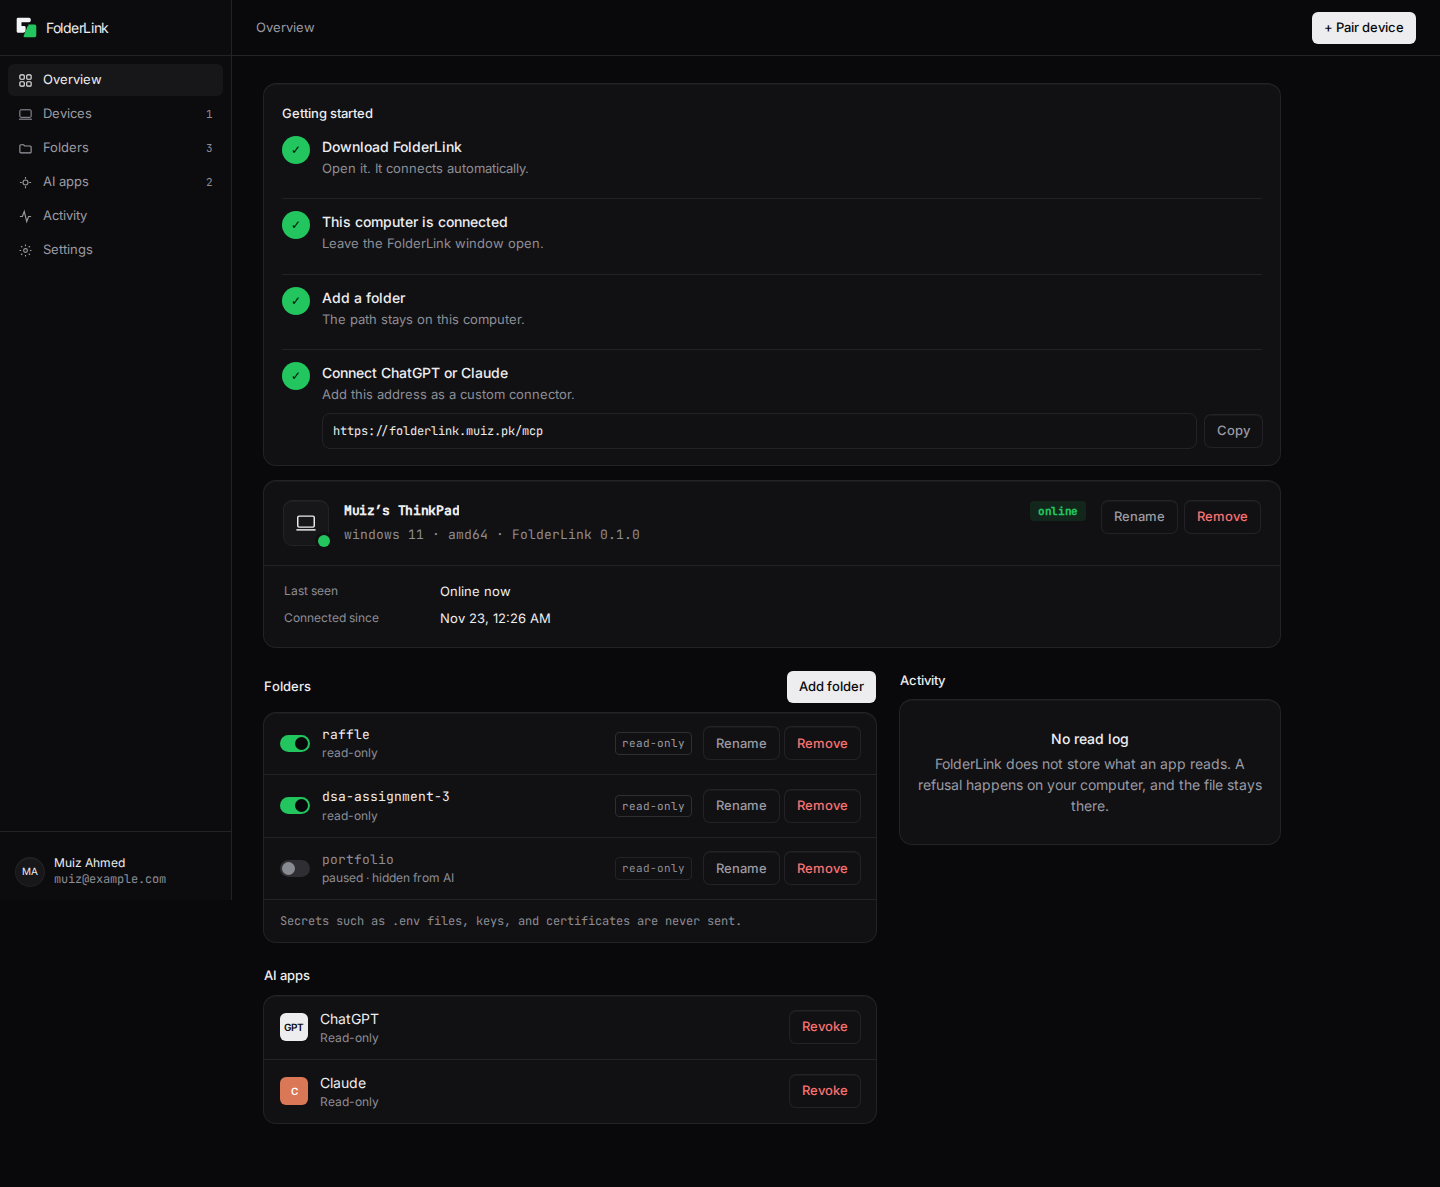
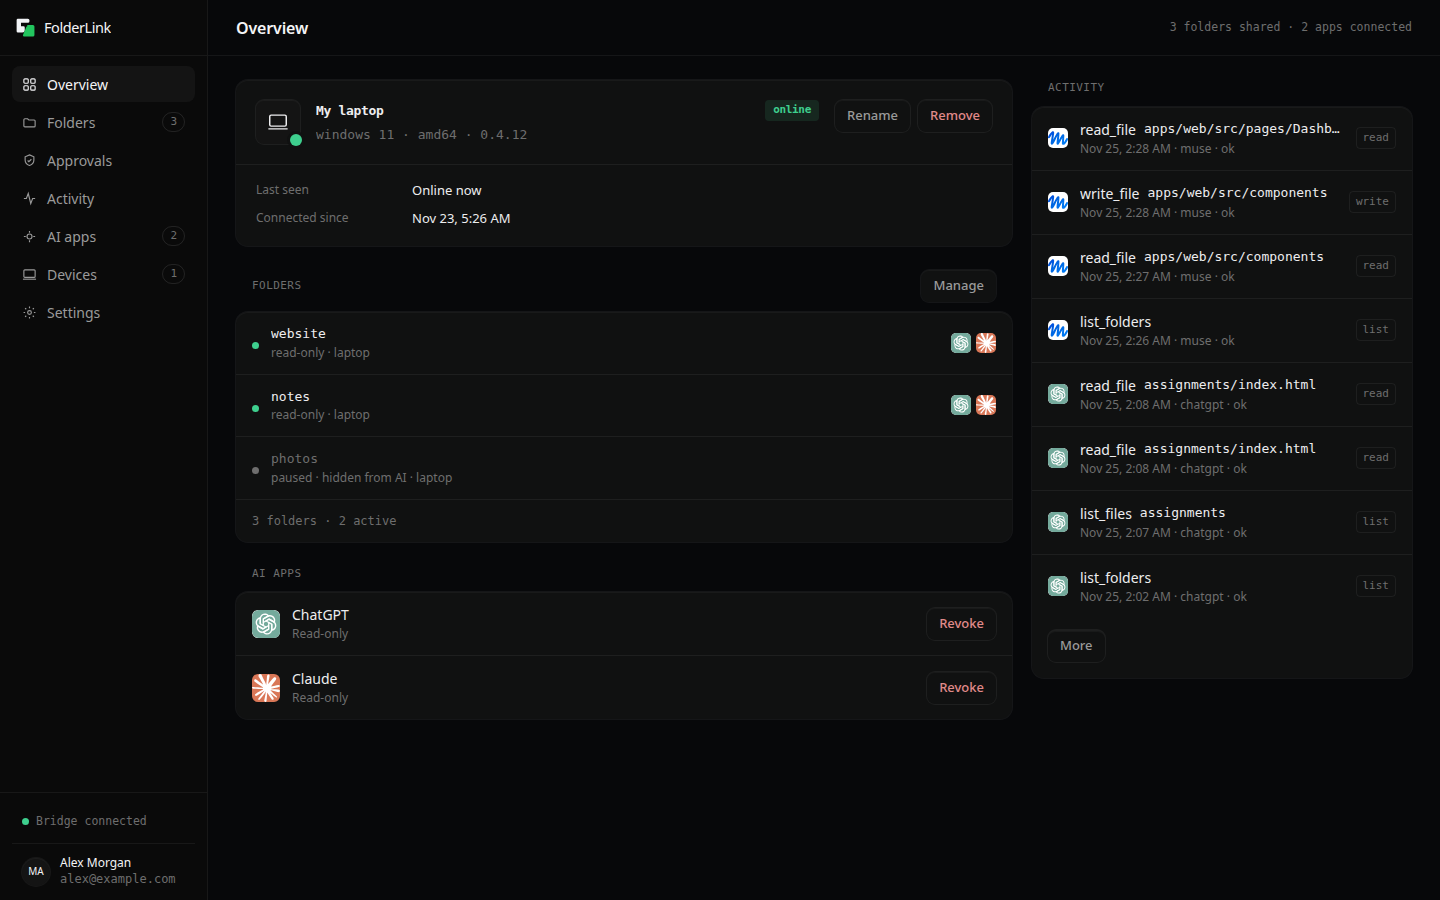
Redesign README as a product page, refresh dashboard screenshots
The README was a plain install guide. It is now a product page:
hero (logo, one-liner, 5 badges, quick links), dashboard screenshot,
5 features, 3-step quick start with folderlink doctor verification,
Why (with the relay trade-off and a do-not-use line), a Mermaid
diagram, usage examples, per-OS install, a config table, Security &
Privacy, 6 FAQs, contributing, license. 197 lines, ~1,295 words.

The privacy claim is now precise instead of a slogan. The old
'files never leave your computer' line is gone: file contents pass
through the Cloudflare Worker in transit (it relays them, never
stores them), the relay is TLS-encrypted but not end-to-end, the AI
provider receives what it asks for, and approval diffs are stored
in the database. The unverified 'works with the free ChatGPT plan'
claim is gone too.

Screenshots: dashboard-hero.png and dashboard.png are fresh captures
of the redesigned dashboard (v0.4.12), scrubbed of personal info
(device 'My laptop', version 0.4.12, generic demo account, folders
website/notes/photos), showing the normal Overview with no pending
approval card. The image is a plain responsive markdown image after
the hero; the old fixed-width img tag and the landing/pair
side-by-side table are gone.

diff --git a/README.md b/README.md
@@ -5,61 +5,38 @@
     <img alt="FolderLink" src="docs/brand/logo-lockup.svg" height="64">
   </picture>
   <p><strong>Your folders. Your AI.</strong></p>
-  <p>Let ChatGPT, Claude and other AI apps read the project folders you choose, right from their website. No uploads, no copy-paste. Approved, logged, and revocable in one click.</p>
+  <p>FolderLink lets ChatGPT, Claude, and Muse read files from your own computer. A file leaves your laptop only when an AI asks for it.</p>
   <p>
     <a href="https://github.com/mmuizahmed/folderlink/actions/workflows/ci.yml"><img alt="CI status" src="https://github.com/mmuizahmed/folderlink/actions/workflows/ci.yml/badge.svg"></a>
-    <a href="LICENSE"><img alt="MIT license" src="https://img.shields.io/badge/license-MIT-22c55e"></a>
     <a href="https://github.com/mmuizahmed/folderlink/releases"><img alt="Latest release" src="https://img.shields.io/github/v/release/mmuizahmed/folderlink?label=release"></a>
+    <a href="LICENSE"><img alt="MIT license" src="https://img.shields.io/badge/license-MIT-22c55e"></a>
     <a href="https://go.dev/"><img alt="Go 1.22" src="https://img.shields.io/badge/go-1.22-00ADD8"></a>
     <a href="https://m8ven.ai/mcp/mmuizahmed/folderlink?s=readme"><img alt="M8ven Verified" src="https://m8ven.ai/badge/mcp/mmuizahmed/folderlink?variant=verified"></a>
   </p>
   <p>
     <a href="https://folderlink.muiz.pk">Website</a>
     ·
-    <a href="docs/ARCHITECTURE.md">Docs</a>
+    <a href="https://folderlink.muiz.pk/dashboard">Dashboard</a>
     ·
-    <a href="docs/SELF-HOSTING.md">Self-host</a>
+    <a href="docs/ARCHITECTURE.md">Docs</a>
     ·
     <a href="SECURITY.md">Security</a>
   </p>
 </div>
 
-<img alt="FolderLink dashboard" src="docs/images/dashboard-hero.png" width="880">
+![FolderLink dashboard: folders, connected apps, and activity](docs/images/dashboard-hero.png)
 
-## Why FolderLink
+## Features
 
-- You stop pasting whole projects into a chat.
-- A file leaves your laptop only when an AI app asks for it.
-- Secrets such as `.env`, keys, and certificates are always blocked.
-- It works with the free ChatGPT plan. No extra subscription.
+- **Ask about your own files.** "What does this function do?" gets an answer from the code on your disk, not from a paste.
+- **You choose the folders.** Only folders you add are visible. The list is enforced on your laptop; the server cannot add a path.
+- **Reads are the default.** Apps connect with the read-only `folderlink:read` scope; writes, deletes, and commands need your dashboard approval first.
+- **Secrets stay put.** `.env` files, keys, certificates, and credential files are refused on your laptop before anything leaves it.
+- **Every read is on the record.** The dashboard shows which app asked for which file.
 
-## How it works
+## Quick start
 
-1. Install FolderLink. It runs in the background and opens your browser to connect this computer.
-2. Sign in with Google, allow the computer, and add a folder from the dashboard.
-3. Add the connector in ChatGPT or Claude. The address is `https://folderlink.muiz.pk/mcp`.
-
-```mermaid
-flowchart LR
-  laptop[FolderLink on your laptop]
-  cloud[folderlink.muiz.pk]
-  agent[ChatGPT or Claude]
-  folders[Folders you allowed]
-  laptop -->|stays connected| cloud
-  agent -->|asks to read a file| cloud
-  cloud -->|passes the request along| laptop
-  laptop --> folders
-```
-
-Your laptop calls out. Nothing on it accepts incoming connections. The AI app never picks a device. Your sign-in decides which laptop answers.
-
-| Landing                             | Pair                                   |
-| ----------------------------------- | -------------------------------------- |
-| ![Landing](docs/images/landing.png) | ![Pair a device](docs/images/pair.png) |
-
-## Install
-
-Windows:
+Windows (PowerShell):
 
 ```powershell
 irm https://folderlink.muiz.pk/install.ps1 | iex
@@ -71,50 +48,140 @@ macOS and Linux:
 curl -fsSL https://folderlink.muiz.pk/install.sh | sh
 ```
 
-The installer checks `checksums.txt`, puts FolderLink in your user directory, and opens the browser to connect this computer. Add a folder from the dashboard. In ChatGPT or Claude, add `https://folderlink.muiz.pk/mcp`.
+The installer checks checksums and opens your browser to connect this computer. Then verify it:
 
-Or install by hand from [GitHub Releases](https://github.com/mmuizahmed/folderlink/releases): download the archive for your computer (on Windows, `folderlink_windows_amd64.zip` — or `folderlink_windows_arm64.zip` on Arm — which holds both the app and the background service), unzip into one folder, and run `folderlink install` — not `folderlink` on its own. Running `folderlink` directly opens a terminal window, and the connection dies when you close it. `folderlink install` copies the app to a stable folder, starts it at login, and shows a FolderLink icon in the system tray (Windows) — click it for the connection status, the dashboard, restart, or quit. No terminal window. If something looks wrong, run `folderlink doctor`.
-
-If you quit FolderLink from the tray, start it again from the Desktop shortcut, from the Start Menu, or by running `folderlink start` in a terminal (or Win+R). To keep the tray icon always visible instead of hidden in the overflow, pick "Keep icon visible" in the tray menu, then turn FolderLink on in Taskbar settings.
-
-```mermaid
-sequenceDiagram
-  participant App as FolderLink
-  participant Site as folderlink.muiz.pk
-  participant You
-  App->>Site: Ask for a pairing code
-  App->>You: Open /pair?code=...
-  You->>Site: Sign in with Google and Allow
-  App->>Site: Stay connected
+```console
+$ folderlink doctor
+[OK] Background copy: background service is installed in ...
+Everything looks good.
 ```
 
-```mermaid
-sequenceDiagram
-  participant AI as ChatGPT or Claude
-  participant Site as folderlink.muiz.pk
-  participant App as FolderLink
-  AI->>Site: Read a file, with an OAuth token
-  Site->>Site: The token names the account
-  Site->>App: Pass the read to that computer
-  App->>App: Allow the folder, refuse secrets
-  App-->>AI: File contents, or a refusal
+Add the connector in ChatGPT, Claude, or Muse:
+
+```text
+https://folderlink.muiz.pk/mcp
 ```
 
-## Security
+Then ask it about a file in a folder you shared. It answers from the file on your computer.
 
-- Writes and commands exist, but only behind dashboard approval: every write needs your approval here first, and commands run only from an allowlist.
-- The folder list is enforced on your laptop. The server cannot add a path.
-- `.env`, keys, and certificates are refused by default.
-- The laptop holds an Ed25519 device key. The server checks it on every connection.
-- AI apps sign in with OAuth. You can disconnect an app or a computer from the website.
+## Why FolderLink
 
-Report a vulnerability through [SECURITY.md](SECURITY.md). The longer threat model is [docs/SECURITY-MODEL.md](docs/SECURITY-MODEL.md).
+Pasting a project into a chat works for one file. It breaks for a folder: the AI sees a stale copy, and the copy lives on someone else's server. FolderLink answers from the live files on your computer — but the trade-off is the relay: file contents pass through a Cloudflare Worker on the way to the AI app. A local-only MCP server avoids the relay but cannot serve the ChatGPT, Claude, or Muse website.
 
-## Self-hosting
+Do not use FolderLink for files that must never leave the machine in any form, even in transit to an AI provider you chose. Use a fully local setup for those.
 
-FolderLink runs on a free Cloudflare account: one Worker, one database, and the website as static files. `pnpm setup` prints the commands. The notes are in [docs/SELF-HOSTING.md](docs/SELF-HOSTING.md).
+## How it works
 
-## Development
+```mermaid
+flowchart LR
+  ai[ChatGPT / Claude / Muse] -->|MCP over HTTPS| worker[Cloudflare Worker]; worker -->|WebSocket| bridge[Go bridge on your computer]; bridge -->|reads only allowed folders| folders[Allowed folders]; folders --> files[Your files]
+```
+
+1. The AI app calls a tool at `https://folderlink.muiz.pk/mcp` with an OAuth token (scope `folderlink:read`), naming a folder and a path.
+2. The Worker checks the token, finds the paired computer, and relays the request over the bridge's outbound WebSocket.
+3. The bridge checks the folder against the list on your computer, refuses secrets, and reads the file from disk.
+4. The answer travels back the same way: bridge → Worker → AI app.
+5. Writes, deletes, and commands stop at step 3. The bridge answers `approval_required`, you approve in the dashboard, and the AI retries with the approval id. An approval is single-use, bound to the exact bytes, and expires after 24 hours (10 minutes to use once approved).
+
+## Usage
+
+Ask about code in a folder you shared:
+
+> In the folder `folderlink`, what does `apps/bridge/internal/guard/deny.go` block, and why?
+
+The AI reads the file and answers. No paste, no upload.
+
+Change a file — with your approval:
+
+> Fix the typo in `README.md` in `folderlink`.
+
+The AI says the write needs approval. You review the diff, approve it, and the AI retries — the write lands only then.
+
+## Installation
+
+### Windows
+
+```powershell
+irm https://folderlink.muiz.pk/install.ps1 | iex
+```
+
+No administrator rights needed. The installer verifies the download against `checksums.txt`, installs to `%LOCALAPPDATA%\FolderLink`, adds it to your user `PATH`, and runs `folderlink install`, which starts it at login with a tray icon. The one-liner installs the amd64 build. On Arm Windows, download `folderlink_windows_arm64.zip` from [Releases](https://github.com/mmuizahmed/folderlink/releases), unzip it, and run `folderlink install` (not `folderlink` on its own). If you quit from the tray, start it again from the Desktop shortcut, the Start Menu, or `folderlink start` (or Win+R). To keep the tray icon visible, pick "Keep icon visible" in the tray menu.
+
+### macOS
+
+```bash
+curl -fsSL https://folderlink.muiz.pk/install.sh | sh
+```
+
+Installs to `~/.local/bin`, adds it to your `PATH`, and starts at login with no terminal window. Apple Silicon and Intel builds.
+
+### Linux
+
+```bash
+curl -fsSL https://folderlink.muiz.pk/install.sh | sh
+```
+
+Same installer as macOS, for x86_64 and aarch64.
+
+### Manual install
+
+Download the archive for your computer from [Releases](https://github.com/mmuizahmed/folderlink/releases), unzip it, and run `folderlink install`. Do not run `folderlink` on its own: it opens a terminal window, and the connection dies when you close it.
+
+## Configuration
+
+| Setting             | Where                               | Default | What it does                                                                        |
+| ------------------- | ----------------------------------- | ------- | ----------------------------------------------------------------------------------- |
+| Folders             | Dashboard                           | —       | Folders an AI can read. Add, rename, pause, or remove them.                         |
+| Write approval mode | Dashboard settings                  | `ai`    | `ai` or `manual`. Fails closed to `manual` when never synced.                       |
+| Automatic updates   | Config, or `FOLDERLINK_AUTO_UPDATE` | on      | Whether the bridge updates itself. Set `0`, `off`, `false`, or `no` to turn it off. |
+
+## Security & Privacy
+
+File contents pass through the Cloudflare Worker in transit: it relays each request to your computer over the bridge's outbound WebSocket and relays the answer back, but never stores file contents. What the Worker does store: your account, devices, folders, and app grants; an activity log of metadata only (which app, which tool, which folder and path, whether it worked — never file contents); and, for a write or delete waiting on approval, the diff (up to 64 KB) or delete preview (up to 2 KB) plus content hashes, so you can review it in the dashboard.
+
+Enforced on your laptop, not the server:
+
+- The folder list lives in the bridge's local config; any other folder is refused.
+- Secrets are refused before anything leaves the disk: `.env` files, keys, certificates, credential files, and directories such as `.ssh` and `.aws`.
+- Apps connect with OAuth, scope `folderlink:read`; revoke either from the dashboard.
+- The bridge holds an Ed25519 device key and signs every connection. It dials out over a WebSocket; nothing on your computer accepts incoming connections.
+- Every write, delete, and command needs your dashboard approval first. Approvals are single-use, bound to the exact bytes or command, and expire after 24 hours. Commands run only from a fixed allowlist (`git`, `node`, `npm`, `npx`, `pnpm`, `go`, `python`, `python3`, `cargo`, `make`) inside the approved folder.
+
+Limitations, stated plainly:
+
+- The Worker relays file contents in memory; encrypted on the wire (TLS), but not end-to-end encrypted between the AI app and your computer.
+- The AI provider you connected receives the content it asked for — connect only providers you trust with those files.
+- Approval diffs and delete previews are stored in the Worker's database (see above) — do not approve a write whose diff contains a secret.
+
+Report a vulnerability through [SECURITY.md](SECURITY.md); the full threat model is [docs/SECURITY-MODEL.md](docs/SECURITY-MODEL.md).
+
+## FAQ
+
+**Which AI apps work with FolderLink?**
+
+ChatGPT, Claude, and Muse, through `https://folderlink.muiz.pk/mcp` — add it as a custom connector.
+
+**Does FolderLink upload my files?**
+
+No bulk upload: a file is sent only when an AI asks for it, relayed through the Worker, never stored by it. See [Security & Privacy](#security--privacy).
+
+**What happens when the bridge is offline?**
+
+The AI gets "No paired device is connected" and nothing is queued. Start FolderLink on that computer and try again.
+
+**Can an AI change or delete my files?**
+
+Only after your dashboard approval. The first call returns `approval_required`; you review the diff and approve; the AI retries. Reads need no approval.
+
+**Can the AI run commands?**
+
+Yes, from a fixed allowlist and only inside an approved folder — and only after your dashboard approval. Commands are not offered to Muse yet.
+
+**Can I self-host the server side?**
+
+Yes. FolderLink runs on a free Cloudflare account: one Worker, one database, and the website as static files. See [docs/SELF-HOSTING.md](docs/SELF-HOSTING.md).
+
+## Contributing
 
 ```bash
 pnpm install
@@ -123,21 +190,7 @@ pnpm typecheck
 pnpm test
 ```
 
-Local worker, pairing, and MCP Inspector steps are in [docs/DEVELOPMENT.md](docs/DEVELOPMENT.md). Contribution rules are in [CONTRIBUTING.md](CONTRIBUTING.md).
-
-## Project structure
-
-| Path              | What it is                                                       |
-| ----------------- | ---------------------------------------------------------------- |
-| `apps/bridge`     | The FolderLink app. Pairing, reconnect, and the folder boundary. |
-| `apps/worker`     | Cloudflare Worker. One record per laptop, plus the database.     |
-| `apps/web`        | Website: landing, pair, and dashboard.                           |
-| `packages/shared` | Message format shared by the website and the worker.             |
-| `docs`            | Architecture, security, self-hosting, and the roadmap.           |
-
-## Roadmap
-
-Shipped: writing files, running commands, and asking before each action. The list is [docs/ROADMAP.md](docs/ROADMAP.md).
+See [CONTRIBUTING.md](CONTRIBUTING.md). Local worker, pairing, and MCP Inspector steps are in [docs/DEVELOPMENT.md](docs/DEVELOPMENT.md).
 
 ## License
 
